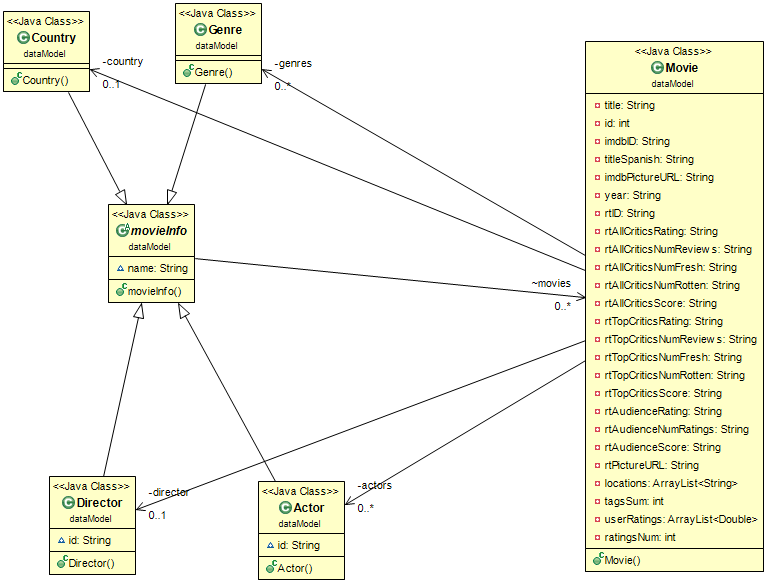
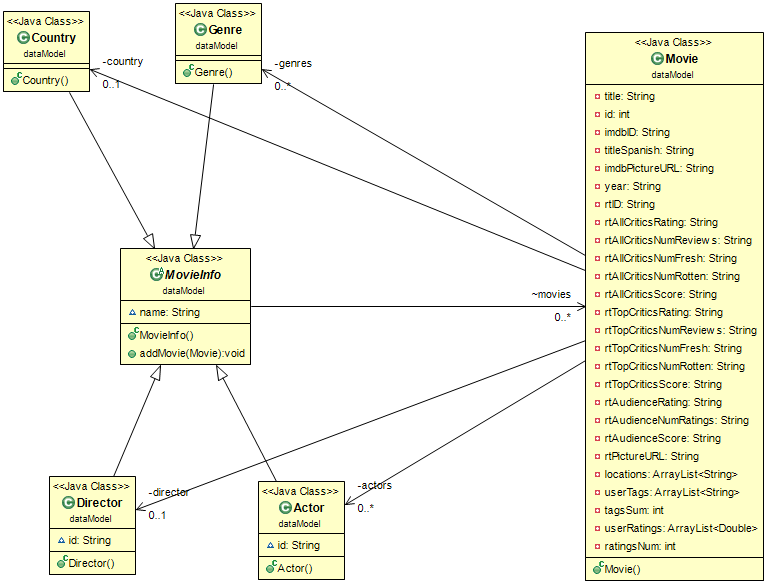
minor typo in new class
replaced movieInfo with MovieInfo

diff --git a/src/dataModel/MovieInfoFactory.java b/src/dataModel/MovieInfoFactory.java
@@ -1,0 +1,15 @@
+package dataModel;
+
+public class MovieInfoFactory {
+	
+	public MovieInfo createInfo(String name, String type) {
+		
+		switch(type) {
+		case "actor":
+			return Actor(name);
+		case "director":
+			return Director(name);
+			
+	}
+
+}

diff --git a/src/dataModel/movieInfo.java b/src/dataModel/movieInfo.java
@@ -2,8 +2,11 @@ package dataModel;
 
 import java.util.ArrayList;
 
-public abstract class movieInfo {
+public abstract class MovieInfo {
 	String name;
 	ArrayList<Movie> movies;
+	public void addMovie(Movie movie) {
+		movies.add(movie);
+	}
 	
 }

diff --git a/src/dataModel/Actor.java b/src/dataModel/Actor.java
@@ -2,7 +2,7 @@ package dataModel;
 
 import java.util.ArrayList;
 
-public class Actor extends movieInfo{
+public class Actor extends MovieInfo{
 
 	String id;
 

diff --git a/src/dataModel/Country.java b/src/dataModel/Country.java
@@ -3,7 +3,7 @@ package dataModel;
 
 import java.util.ArrayList;
 
-public class Country extends movieInfo{
+public class Country extends MovieInfo{
 	
 	
 

diff --git a/src/dataModel/Genre.java b/src/dataModel/Genre.java
@@ -2,7 +2,7 @@ package dataModel;
 
 import java.util.ArrayList;
 
-public class Genre extends movieInfo{
+public class Genre extends MovieInfo{
 
 	
 

diff --git a/src/dataModel/Director.java b/src/dataModel/Director.java
@@ -1,6 +1,6 @@
 package dataModel;
 
-public class Director extends movieInfo{
+public class Director extends MovieInfo{
 
 	String id;
 
